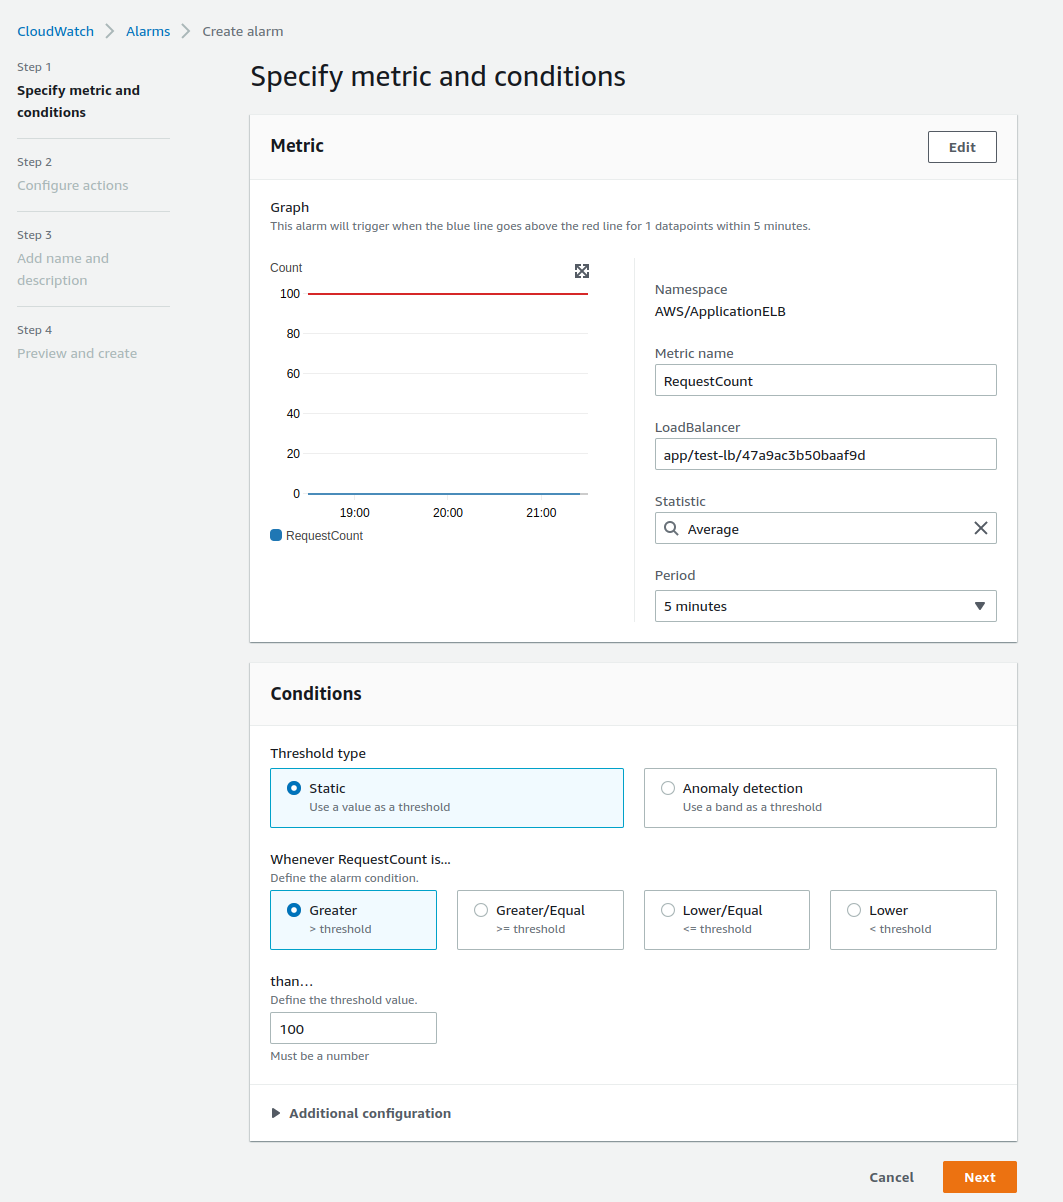
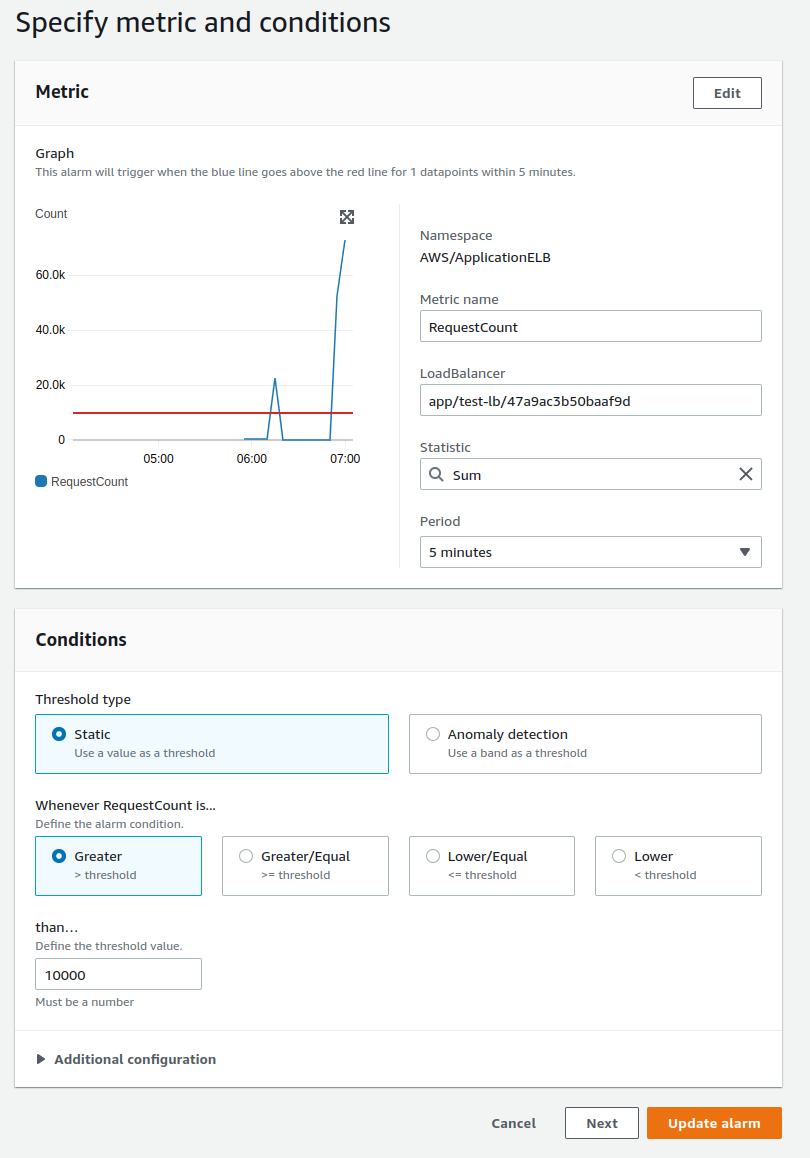
L25: updated Readme

diff --git a/L25/README.md b/L25/README.md
@@ -20,17 +20,17 @@
 ![image](https://github.com/Nazar910/hsa-5/blob/main/L25/images/create-launch-template.png?raw=true)
 * create autoscale config
     * attach to existing lb
-
 ![image](https://github.com/Nazar910/hsa-5/blob/main/L25/images/attach-autoscale-to-existing-lb.png?raw=true)
     * configure group size (specify minimun instances 1 and max instances to 3 for our case)
-
 ![image](https://github.com/Nazar910/hsa-5/blob/main/L25/images/group-size.png?raw=true)
     * specify appropriate proportion of On-Demand|Spot instances for the best price for value
-
 ![image](https://github.com/Nazar910/hsa-5/blob/main/L25/images/instance-purchase-options.png?raw=true)
     * specify dynamic scaling policy baseed on AVG CPU usage:
-
 ![image](https://github.com/Nazar910/hsa-5/blob/main/L25/images/scaling-policy-based-on-cpu.png?raw=true)
+    * specify dynamic step scaling policy based on Request amount:
+![image](https://github.com/Nazar910/hsa-5/blob/main/L25/images/step-scaling-policy.png?raw=true)
+    Note that for step scaling policy we should also create CloudWatch alarm:
+![image](https://github.com/Nazar910/hsa-5/blob/main/L25/images/cloudwatch-alarm.png?raw=true)
 
 When the autoscale config is created we should see success message in the activity bar:
 
@@ -60,3 +60,7 @@ and then stops:
 After we stop benchmarking, autoscaling will eventually terminate useless instances:
 
 ![image](https://github.com/Nazar910/hsa-5/blob/main/L25/images/scale-down.png?raw=true)
+
+Also when we hitting our infrastructur with high amout of request when we have Step Scaling policy, we see appropriate results in Activity bar:
+![image](https://github.com/Nazar910/hsa-5/blob/main/L25/images/step-scaling-policy-in-action.png?raw=true)
+In the best case, we could scale much more instances on second threshold, but since we're in a Free Tier we're left with max 3 machines.
